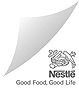
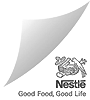
Added js checker msg + page curl amends

diff --git a/css/scene-mobile.css b/css/scene-mobile.css
@@ -50,16 +50,16 @@
     height: 673px;
     width: 456px;
 }
+.mobile .paper-curl {
+    bottom: -546px;
+}
 .mobile .paper-curl img {
-    height: 175px;
-    width: 157px;
+    height: 178px;
+    width: 160px;
 }
 .mobile .shooting-star img {
     width: 134px;
     height: 74px;
-}
-.mobile .paper-curl {
-    bottom: -540px;
 }
 .mobile .santas-slay img {
 

diff --git a/js/loader.js b/js/loader.js
@@ -172,7 +172,7 @@ $(document).ready(function() {
 								filter: 'alpha(opacity=100)',
 								height:'176px',
 								width:'158px',
-								bottom:'-540px',
+								bottom:'-546px',
 								left:'518px'
 							  },800);
 							

diff --git a/scene.php b/scene.php
@@ -1,7 +1,7 @@
 <!DOCTYPE html PUBLIC "-//W3C//DTD XHTML 1.0 Transitional//EN" "http://www.w3.org/TR/xhtml1/DTD/xhtml1-transitional.dtd">
 <html xmlns="http://www.w3.org/1999/xhtml">
 <head>
-  <title>Easy Slider jQuery Plugin Demo</title>
+  <title>Nestlé eCard</title>
   <meta http-equiv="content-type" content="text/html;charset=UTF-8" />    
   <link href="css/scene.css" rel="stylesheet" type="text/css" media="screen" />
   <link href="css/screen.css" rel="stylesheet" type="text/css" media="screen" />

diff --git a/index.php b/index.php
@@ -83,6 +83,9 @@
 <div id="nav">
 <div class="stamp"><a href="scene.php"></a></div>
 <div class="envelope"><img src="./images/envelope_closed.gif"/></div>
+<noscript>
+  You need to turn javascript on in your browser preferences and re-fresh the page.
+</noscript>
 </div>
 <div id="footer">
 <div class="instructions"><img title="Click stamp to open your card" alt="Click stamp to open your card" src="./images/instructions.png"/></div>
